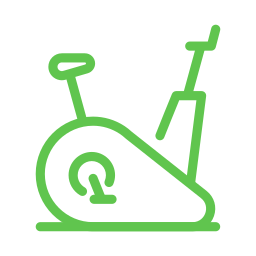
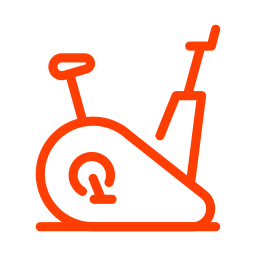
meu primeiro commit

Changed region(s): [[0.125, 0.0938, 0.875, 0.9062], [0.25, 0.5938, 0.4688, 0.8125]]

diff --git a/assets/css/home.css b/assets/css/home.css
@@ -25,11 +25,11 @@
     font-weight: var(--font-bold);
     line-height: 100%;
     color: transparent;
-    -webkit-text-stroke: 3px var(--color-one);
+    -webkit-text-stroke: 5px var(--color-one);
 }
 
 .home-box p {
-    font-size: var(--h3-font-size);
+    font-size: var(--h2-font-size);
     font-weight: var(--font-regular);
     color: var(--color-two);
     line-height: 100%;
@@ -63,15 +63,16 @@
     .home-box h1 {
         margin-top: 0;
         max-width: 100%;
-        -webkit-text-stroke: 1px var(--color-one);
+        -webkit-text-stroke: 2px var(--color-one);
     }
 
     .home-box p {
-        margin: 25px 0;
+        margin: 5px 0;
     }
 
     .home-box button {
-        padding: 10px 0;
+        padding: 5px 0;
         width: 70%;
+        margin-top: 10px;
     }
 }

diff --git a/index.html b/index.html
@@ -143,7 +143,7 @@
         <span>NOSSOS PLANOS</span>
         <h2>ESCOLHA SEU PLANO</h2>
 
-        <div class="planos-box-cards" data-aos="fade-down" data-aos-duration="2000">
+        <div class="planos-box-cards" data-aos="fade-up" data-aos-duration="2000">
 
           <div class="planos-box-card">
             <div class="planos-box-card-txt">
@@ -218,7 +218,7 @@
         <h2>TREINE COM OS MELHORES</h2>
 
         <!-- SWIPER -->
-        <div class="swiper mySwiper" data-aos="fade-up" data-aos-duration="3000">
+        <div class="swiper mySwiper" data-aos="fade-down" data-aos-duration="3000">
           <div class="swiper-wrapper">
             <div class="swiper-slide">
               <img src="./assets/img/01.png" alt="professor">

diff --git a/assets/css/style.css b/assets/css/style.css
@@ -101,7 +101,7 @@ section {
   /*========== COLORS ==========*/
   --bg-color: #0a0a0a;
   --bg-color-two: #1a1a1a;
-  --color-one: #26ff00;
+  --color-one: #ff3e03;
   --color-two: #fff;
   --color-three: #505050;
 
